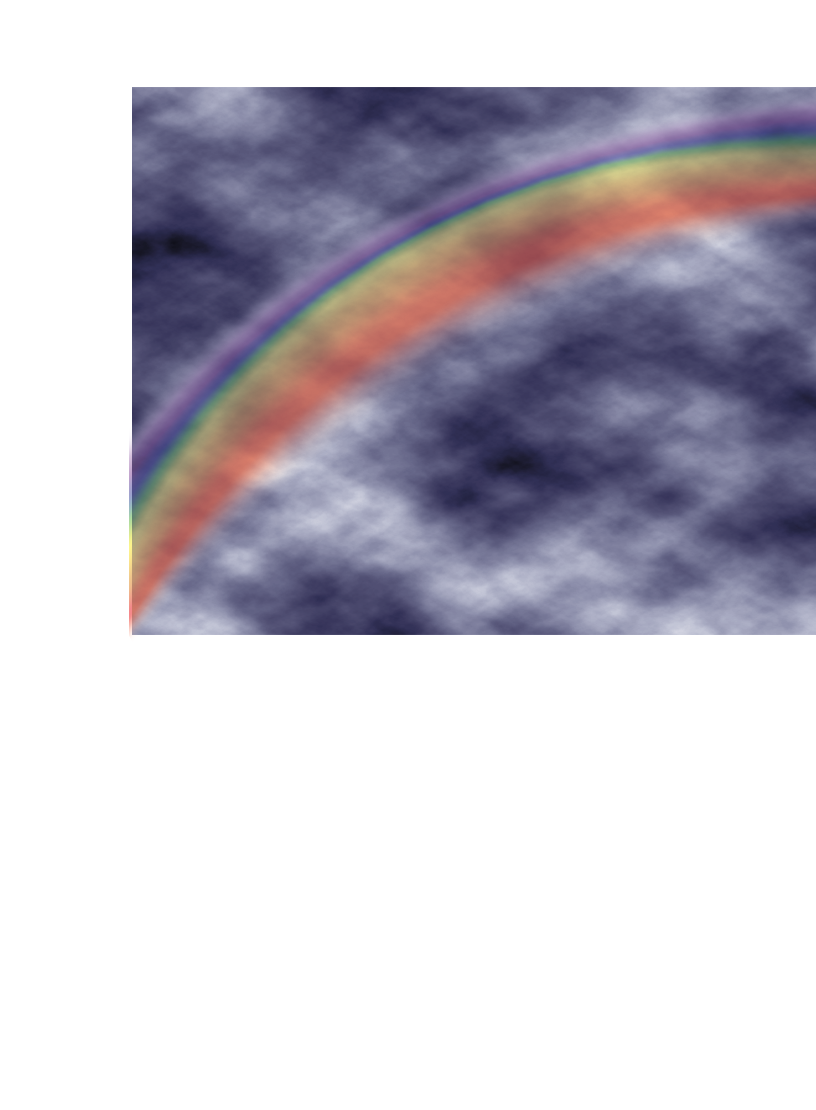
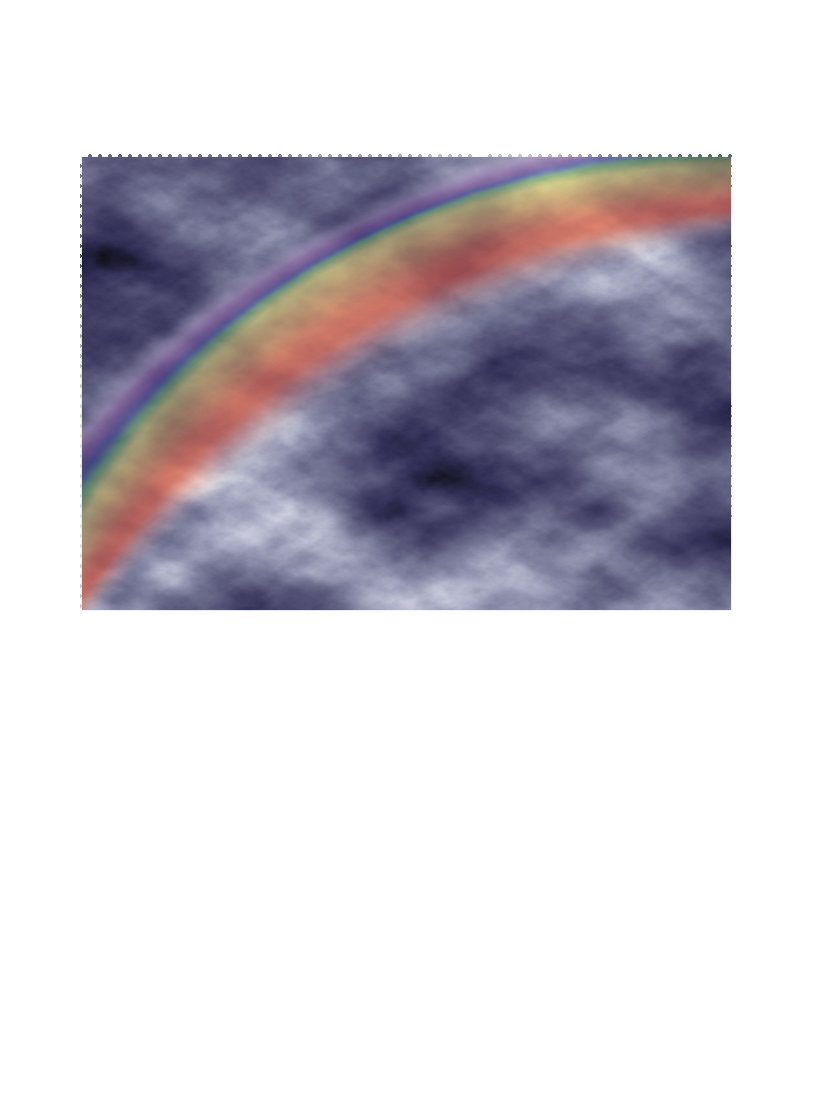
modifier dunkie

diff --git a/src/cartes/dunkie/dunkie.js b/src/cartes/dunkie/dunkie.js
@@ -10,8 +10,7 @@ function Dunkie() {
         <TiltCardWidget 
             fg={foreground}
             mg={middleground} 
-            bg={background} 
-            backgroundTransformCSS = "translateZ(0px) translateY(-20px) translateX(-35px) scale(1.12)"/> 
+            bg={background}/> 
     );
 }
 
